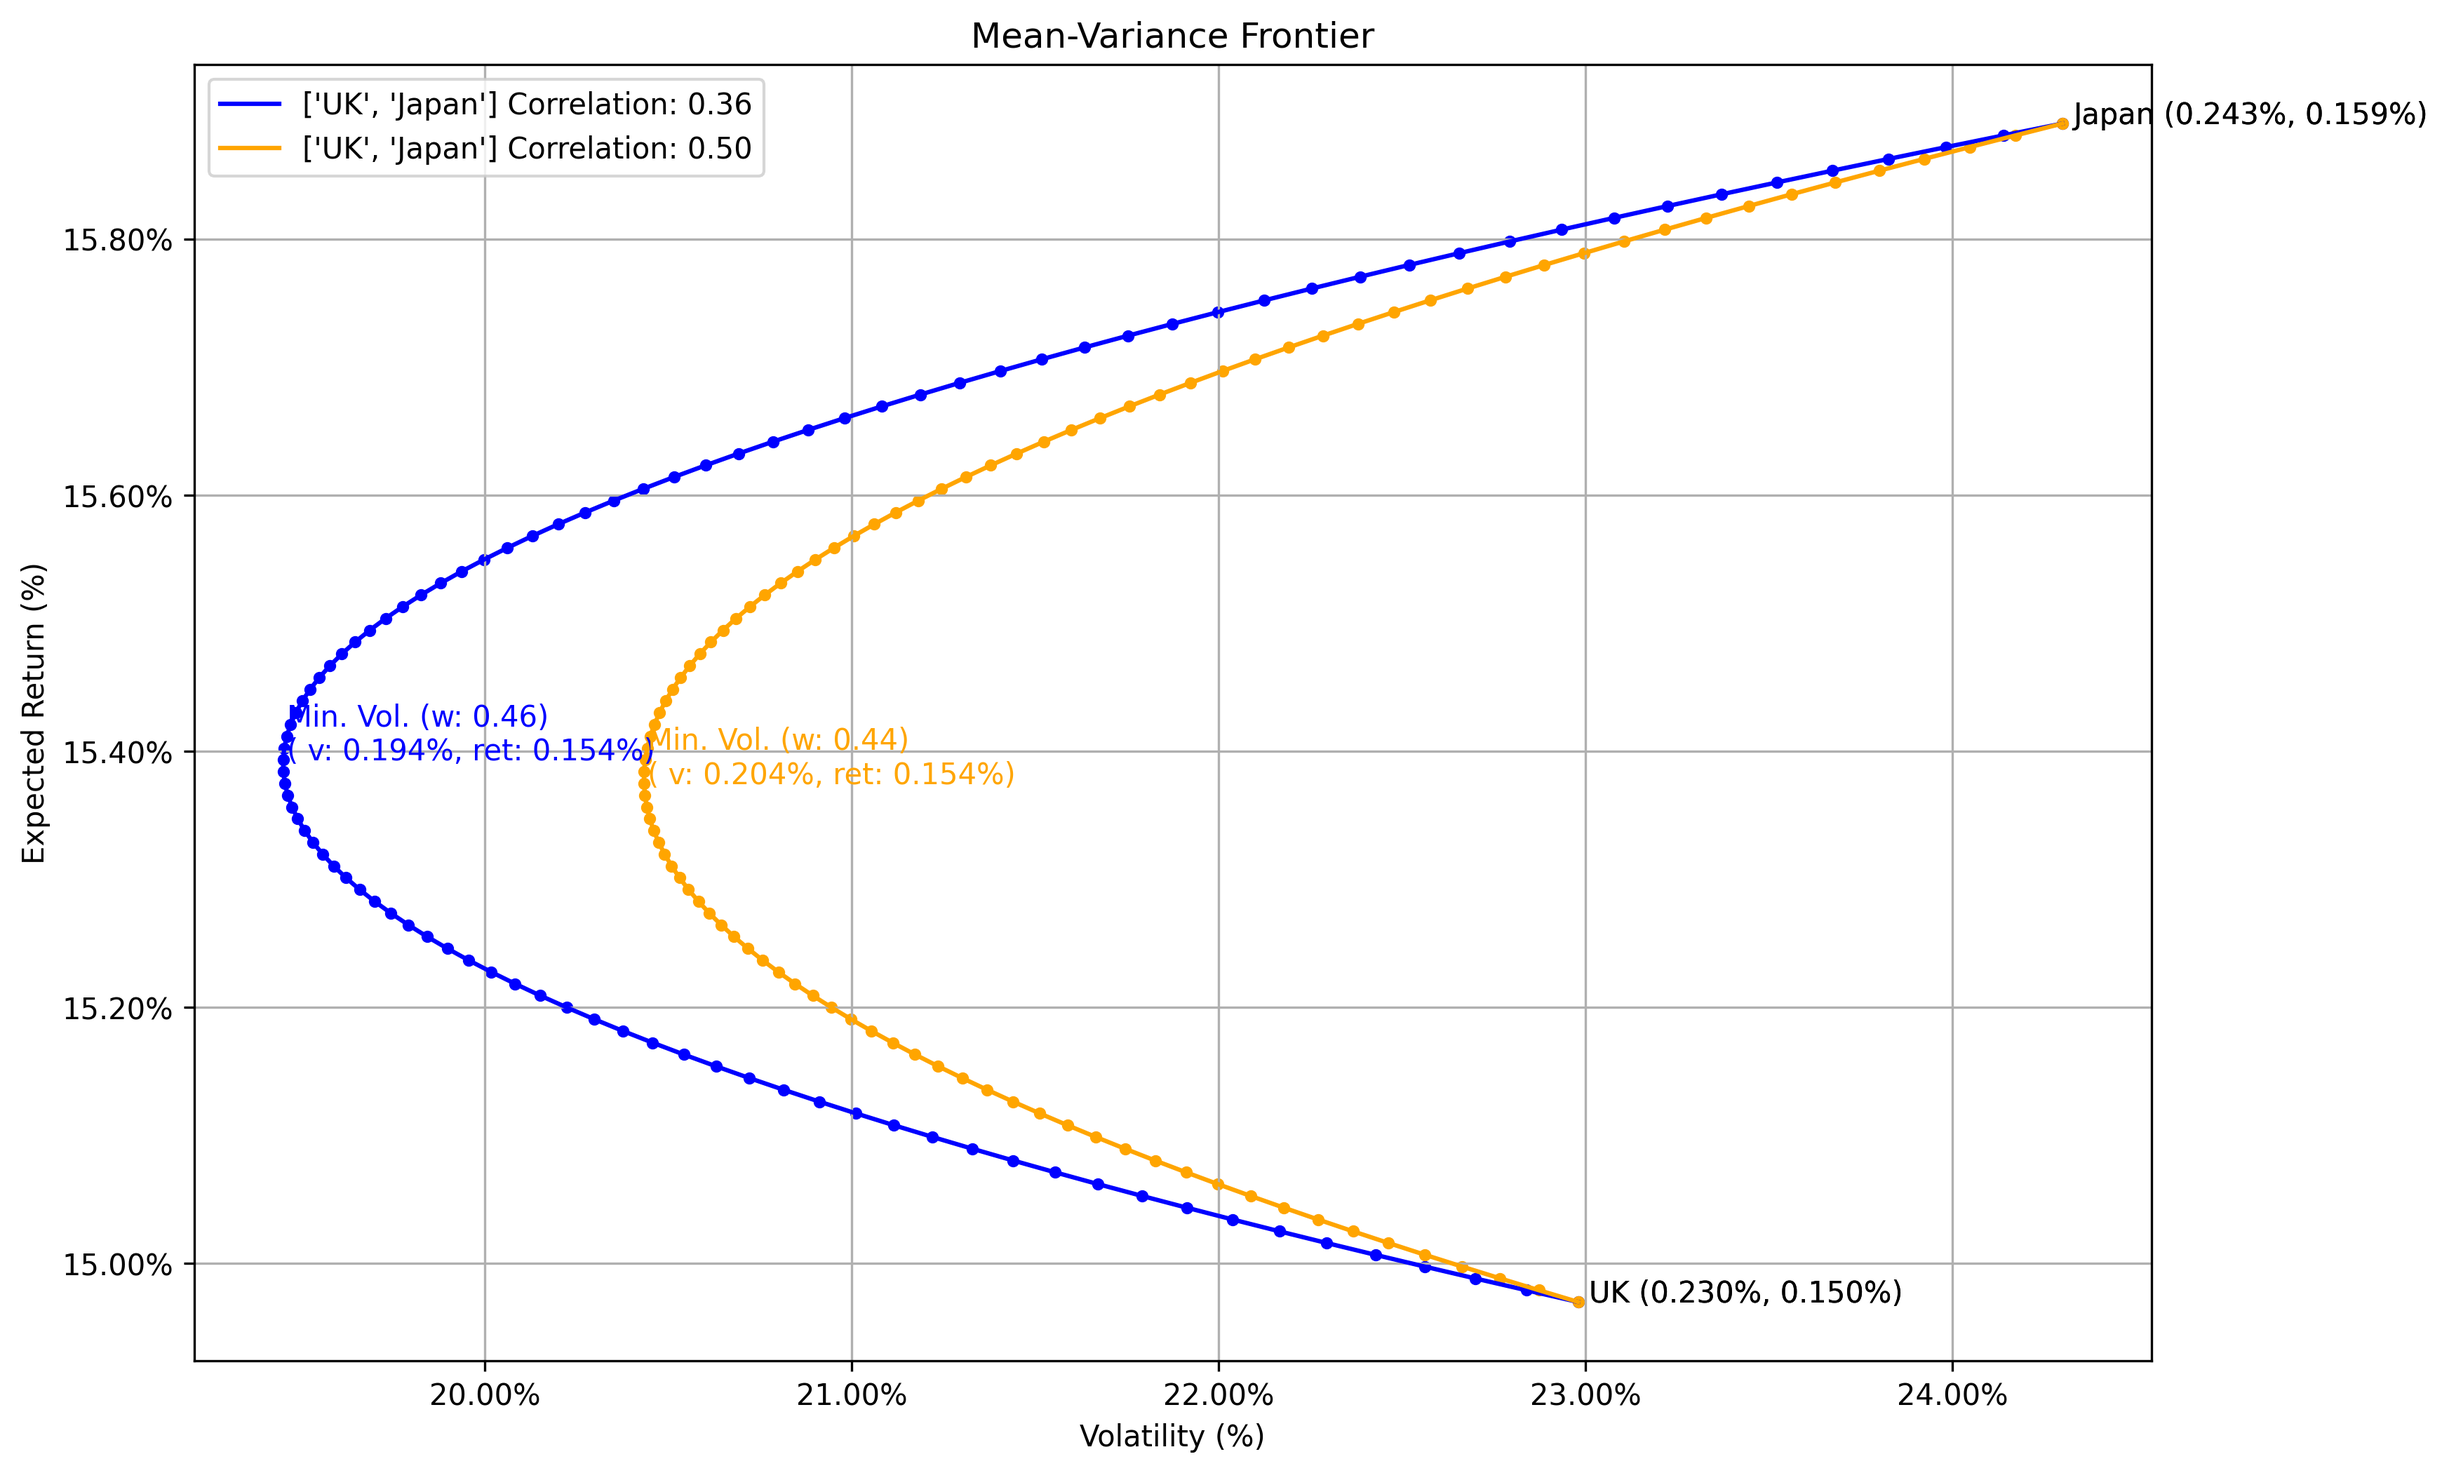
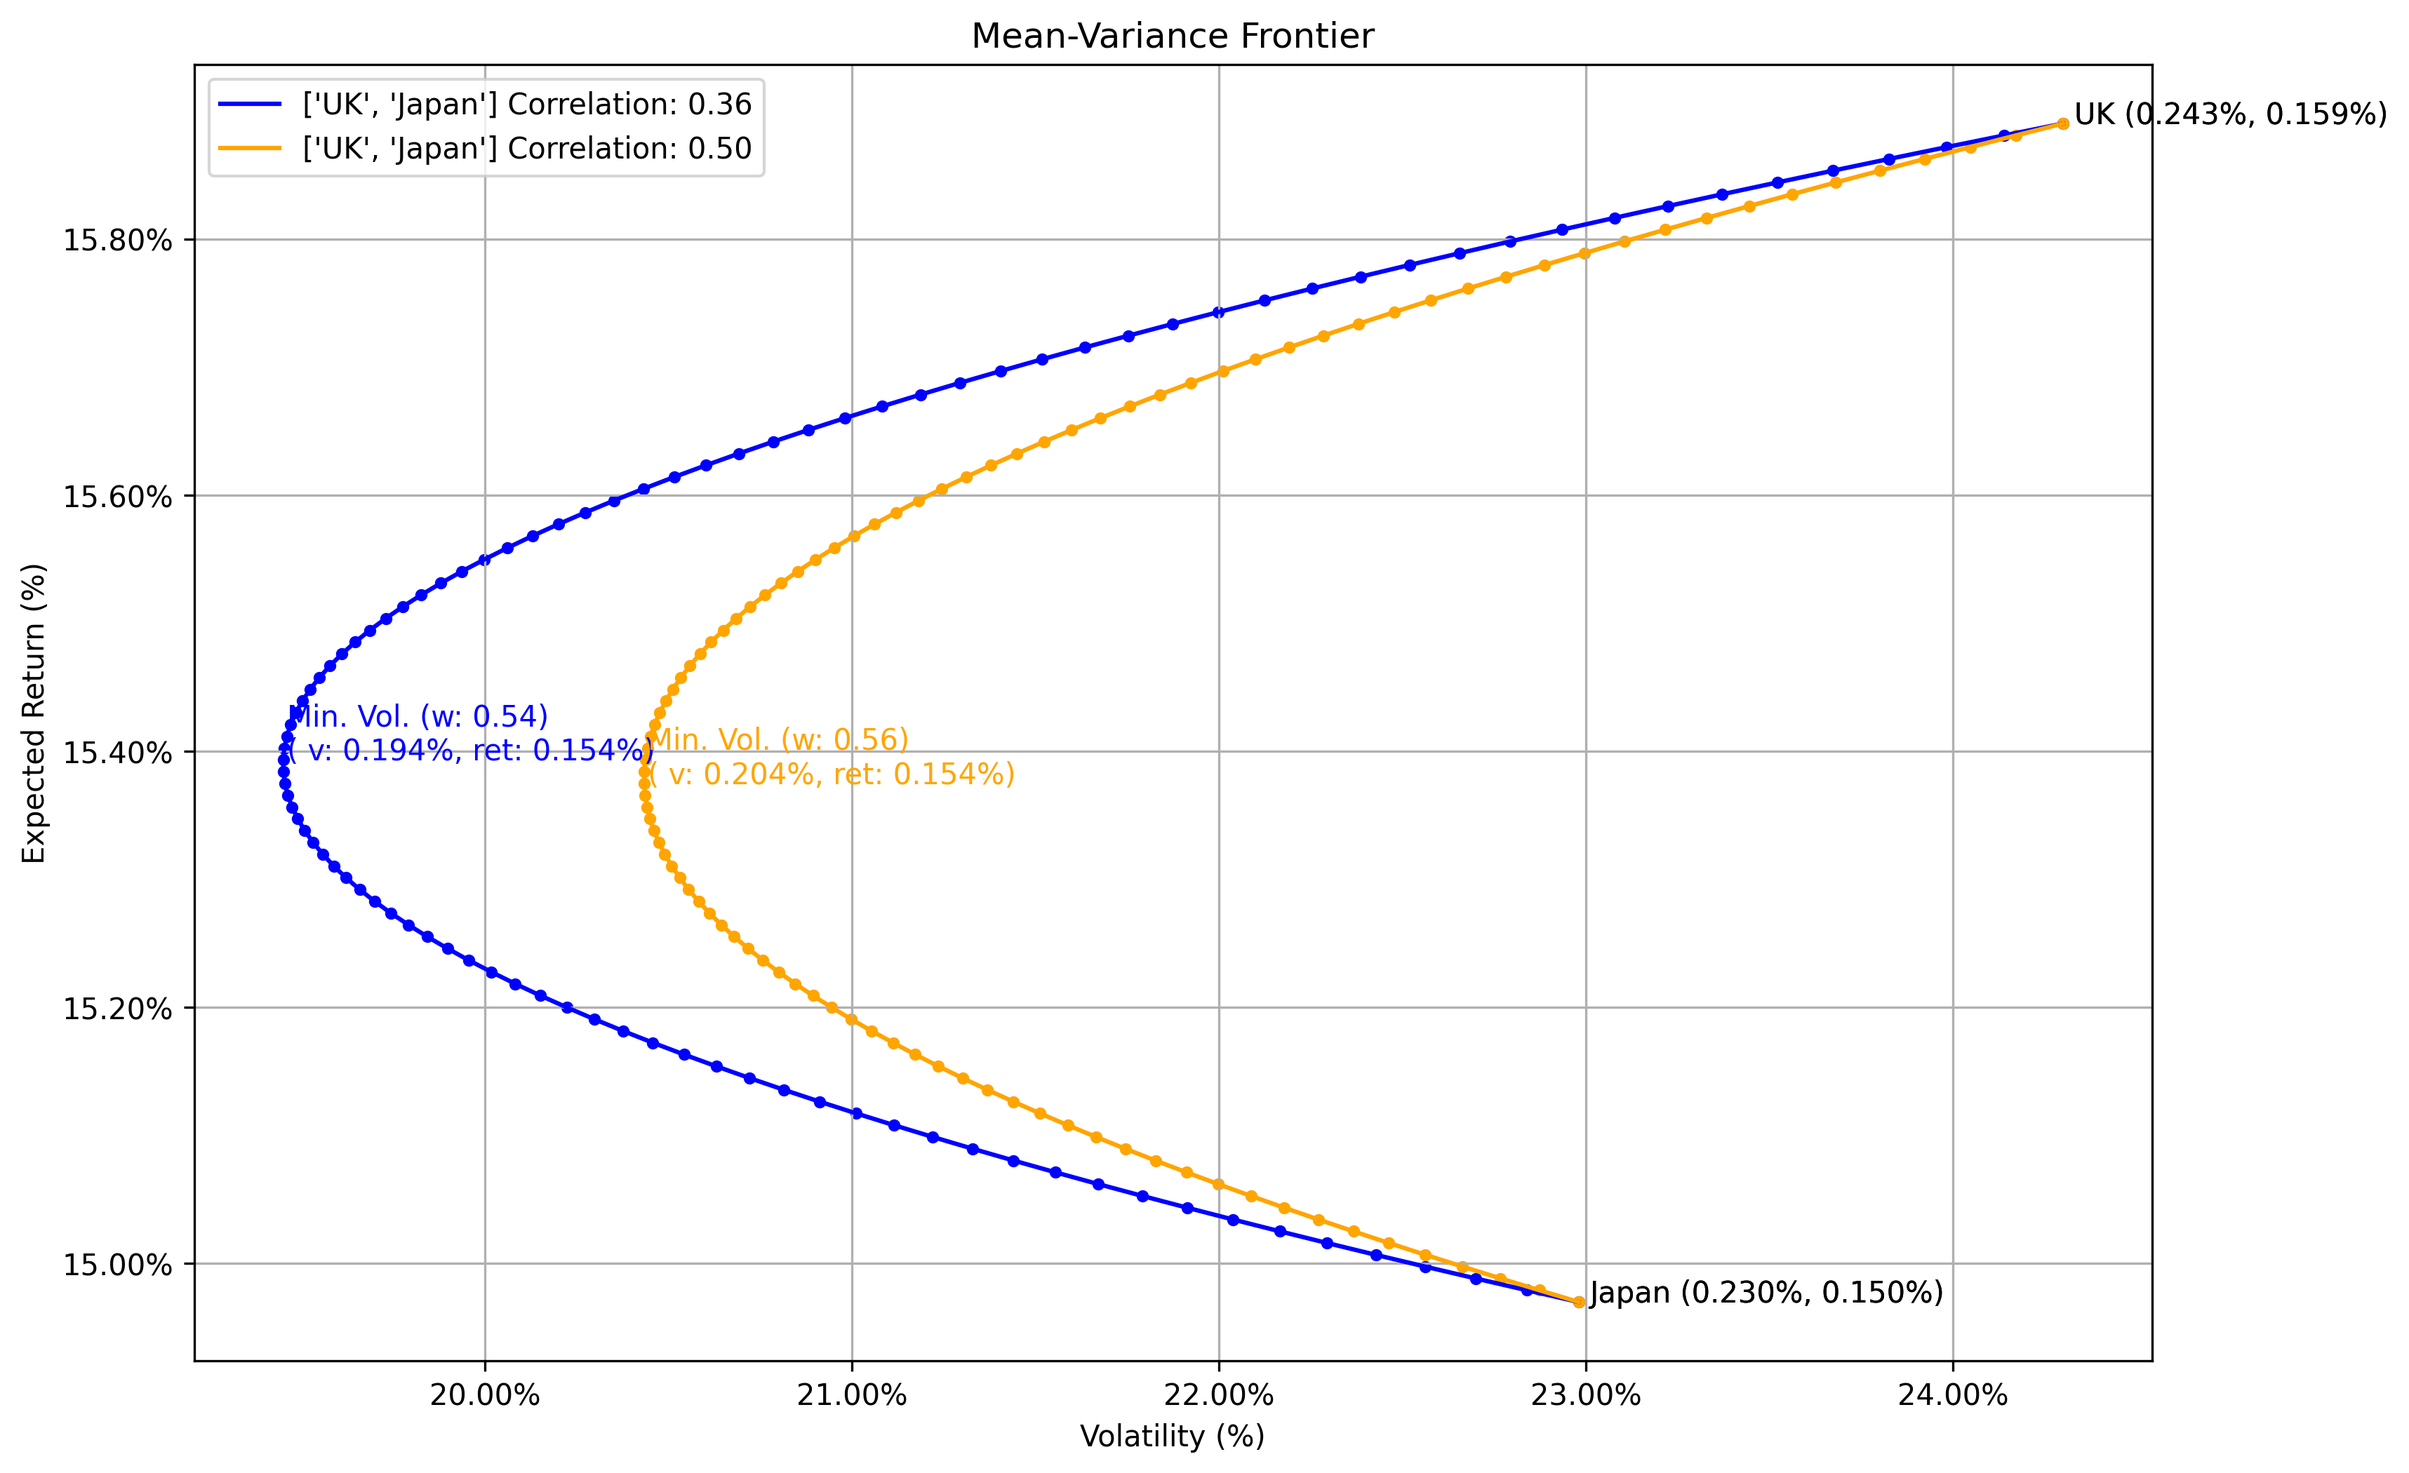
assignment3 files added

diff --git a/Assignments/Jan-May-2026/investment_and_portfolio_management_coursera/course2_portfolio_selection_and_risk_management/assignment3/data_analysis.py b/Assignments/Jan-May-2026/investment_and_portfolio_management_coursera/course2_portfolio_selection_and_risk_management/assignment3/data_analysis.py
@@ -20,7 +20,7 @@ class Portfolio:
         results = []
         for x in range(num_points + 1):
             w = x / num_points
-            weights = np.array([w, 1 - w])
+            weights = np.array([1 - w, w])
             ret = self.get_weighted_return(weights)
             vol = self.get_weighted_std(weights)
             results.append((w, ret, vol))
